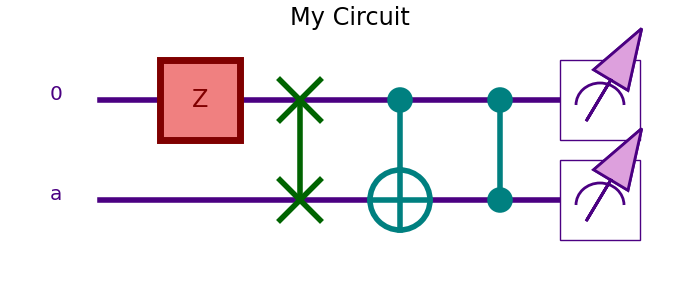
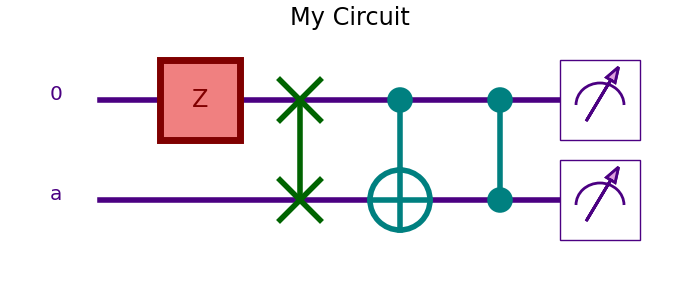
Fix sizing bug in MPLDrawer (#1823)
* fig measure arrowhead bug

* Update doc/releases/changelog-dev.md

Changed region(s): [[0.84, 0.42, 0.93, 0.63], [0.84, 0.09, 0.93, 0.3]]

diff --git a/pennylane/circuit_drawer/mpldrawer.py b/pennylane/circuit_drawer/mpldrawer.py
@@ -781,7 +781,7 @@ class MPLDrawer:
             arrow_start_y,
             arrow_width,
             arrow_height,
-            head_width=self._box_length / 2.0,
+            head_width=self._box_length / 8.0,
             **lines_options,
         )
         self._ax.add_line(arrow)

diff --git a/doc/releases/changelog-dev.md b/doc/releases/changelog-dev.md
@@ -862,6 +862,9 @@
 
 <h3>Bug fixes</h3>
 
+* Fixes a bug with the arrow width in the `measure` of `qml.circuit_drawer.MPLDrawer`. 
+  [(#1823)](https://github.com/PennyLaneAI/pennylane/pull/1823)
+
 * The helper functions `qml.math.block_diag` and `qml.math.scatter_element_add` now are
   entirely differentiable when using Autograd.
   Previously only indexed entries of the block diagonal could be differentiated, while
